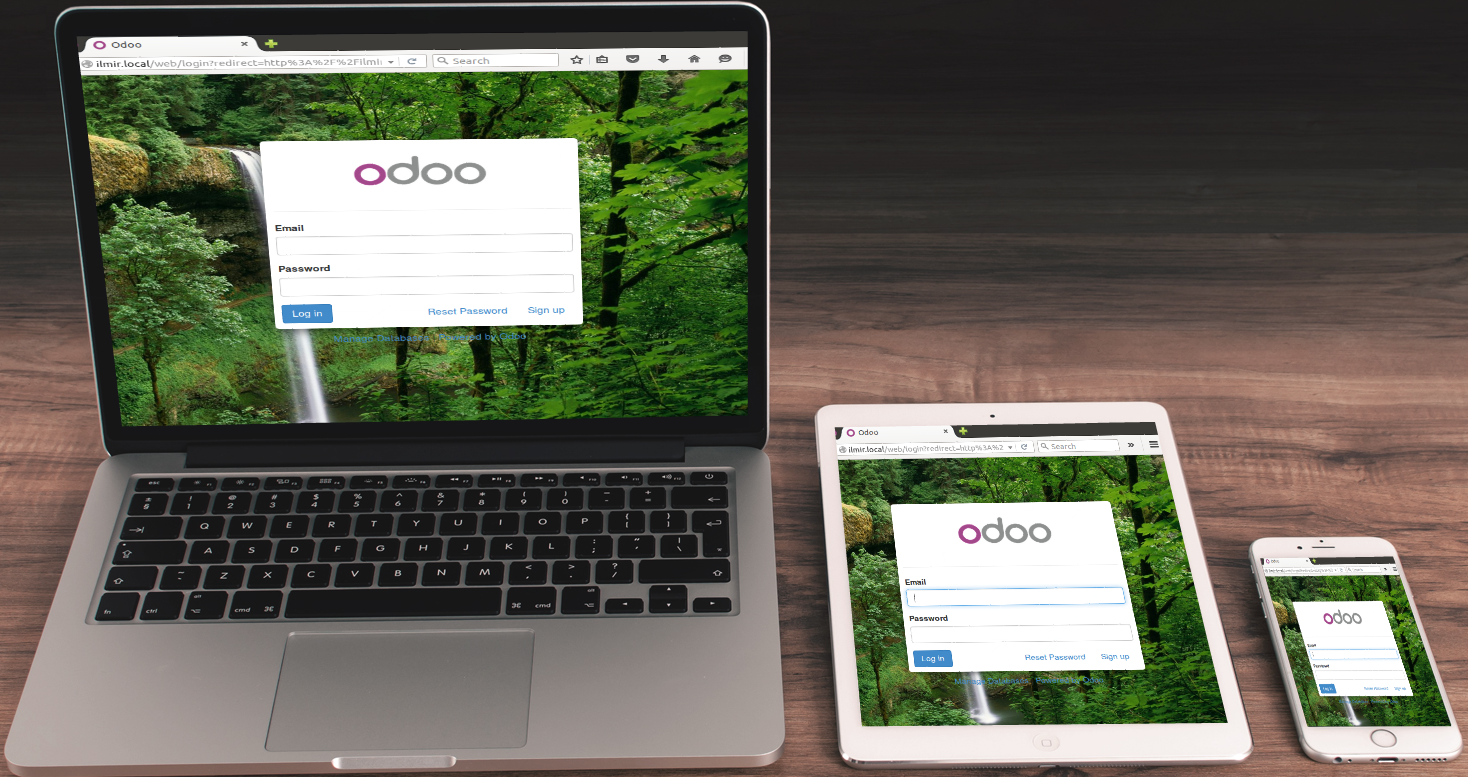
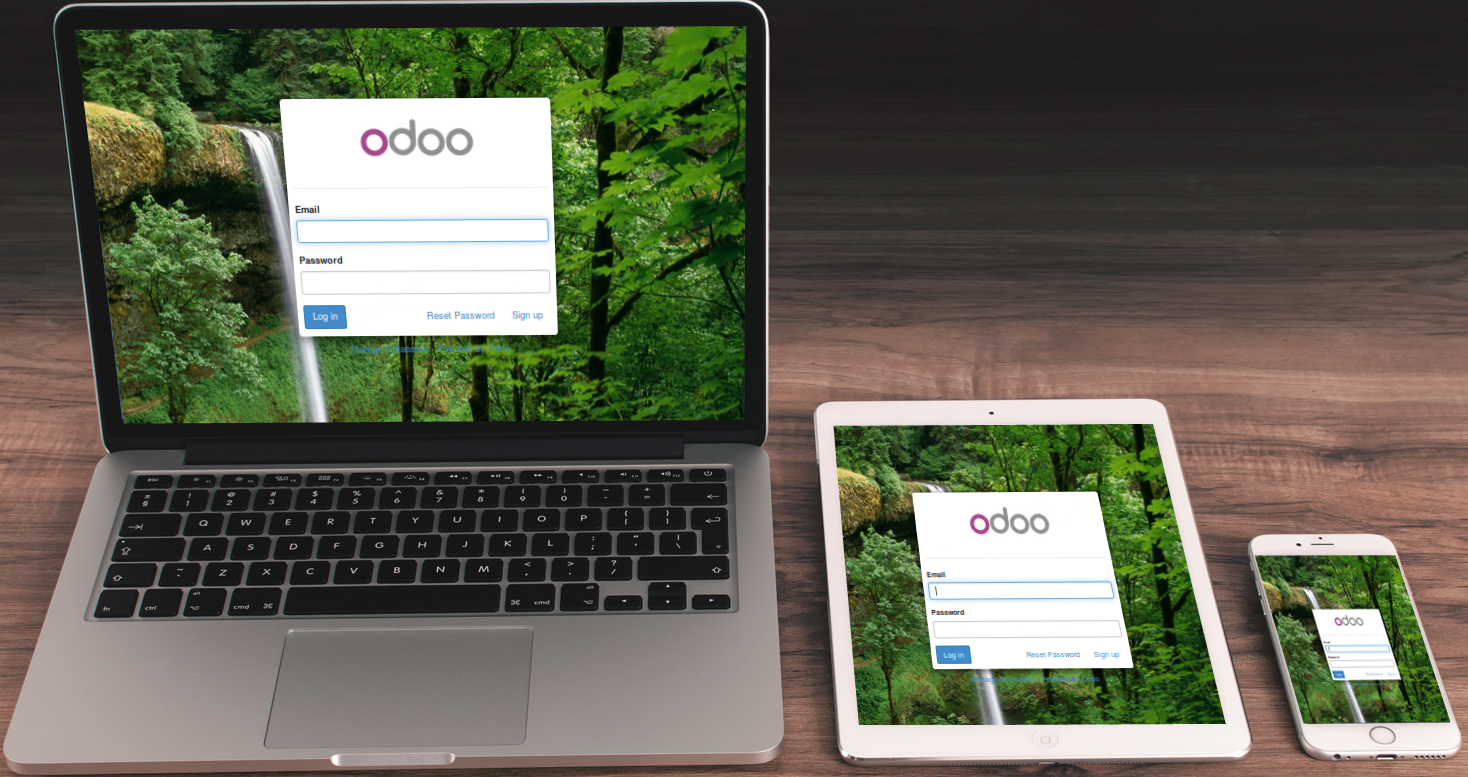
Updating web_login_background v2

diff --git a/web_login_background/static/description/index.html b/web_login_background/static/description/index.html
@@ -2,7 +2,7 @@
   <div class="oe_row oe_spaced">
 	<div class="oe_span12">
 	  <h2 class="oe_slogan">Web Login Background</h2>
-	  <h3 class="oe_slogan">Set a background for the login page.</h3>
+	  <h3 class="oe_slogan">Get a random background at the login page.</h3>
 	</div>
 
 	<div class="oe_span12">
@@ -36,40 +36,36 @@
   </div>
 </section>
 
-<section class="oe_container oe_dark">
+<section class="oe_container">
   <div class="oe_row oe_spaced">
 	<div class="oe_span12">
 	  <p class="oe_mt32">
 	    Now, turning to the login page, you can see the downloaded background	
 	  </p>
-	  <div class="oe_demo oe_picture oe_screenshot">
-		<img src="background.png"/>
+	  <div class="oe_demo oe_picture">
+		<img src="background.png?4"/>
 	  </div> 
 	</div>
-  </div>
-</section>
 
-<section class="oe_container oe_dark">
-  <div class="oe_row oe_spaced">
 	<div class="oe_span12">
 	  <p class="oe_mt32">
 	   The module allows to use unlimited number of images for the background. In this case, an image will be selected and changed randomly. For example, if we reload the above login page, the background will be changed.
 	  </p>
-	  <div class="oe_demo oe_picture oe_screenshot">
-		<img src="background2.png"/>
+	  <div class="oe_demo oe_picture">
+		<img src="background2.png?4"/>
 	  </div> 
-	</div>
+	</div>	
   </div>
 </section>
 
-<section class="oe_container">
+<section class="oe_container oe_dark">
   <div class="oe_row oe_spaced">
 	<div class="oe_span12">
 	  <p class="oe_mt32">
 	    It must be noted that a background images can be adapted to any size screen.
 	  </p>
 	  <div class="oe_demo oe_picture oe_screenshot">
-		<img src="adaptive.png"/>
+		<img src="adaptive.png?1"/>
 	  </div> 
 	</div>
   </div>

diff --git a/web_login_background/__openerp__.py b/web_login_background/__openerp__.py
@@ -1,12 +1,12 @@
 # -*- coding: utf-8 -*-
 {
     'name': "Web login background",
+    'summary': """Get a random background at the login page""",
     'author': "IT-Projects LLC, Ildar Nasyrov",
     'website': "https://twitter.com/nasyrov_ildar",
     'category': 'Base',
-    'images': ['images/module_pic.png'],
+    'images': ['images/login.png'],
     'license': 'GPL-3',
-    'category': 'Base',
     'version': '1.0.0',
     'depends': ['base'],
     'data': [
